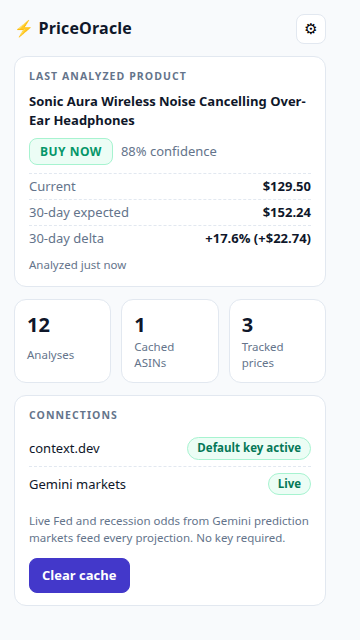
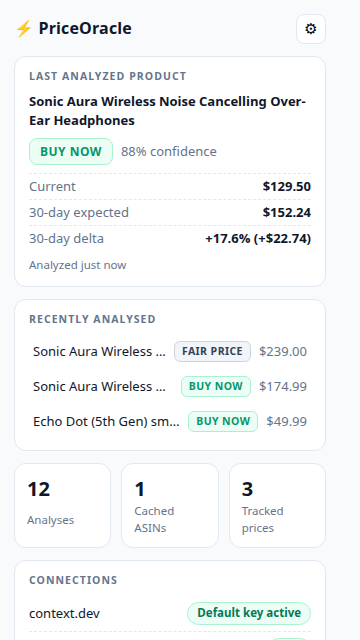
1.4.0: recently analysed list in the popup

Changed region(s): [[0.0611, 0.4688, 0.8861, 0.9688], [0.5194, 0.9375, 0.8861, 1.0]]

diff --git a/amazon-price-oracle/src/background/service-worker.js b/amazon-price-oracle/src/background/service-worker.js
@@ -22,6 +22,7 @@ import {
   testContextDevConnection
 } from './context-dev.js';
 import { getPrediction, testGeminiConnection } from './gemini-prediction.js';
+import { addRecent } from './recent.js';
 import { clearPriceHistory, countTrackedProducts, historySignals, recordPrice } from './price-history.js';
 import { computeProjection, estimateVolatility } from './projection-engine.js';
 
@@ -196,8 +197,19 @@ async function runPipeline(page) {
 }
 
 async function recordLastAnalysis(result) {
-  const count = (await chrome.storage.local.get(STORAGE_KEYS.ANALYSIS_COUNT))[STORAGE_KEYS.ANALYSIS_COUNT] || 0;
+  const stored = await chrome.storage.local.get([STORAGE_KEYS.ANALYSIS_COUNT, STORAGE_KEYS.RECENT_ANALYSES]);
+  const count = stored[STORAGE_KEYS.ANALYSIS_COUNT] || 0;
+  const entry = {
+    at: Date.now(),
+    asin: result.asin,
+    title: result.title,
+    currentPrice: result.projection.currentPrice,
+    deltaPercentMonth: result.projection.deltaPercentMonth,
+    action: result.projection.recommendation.action,
+    label: result.projection.recommendation.label
+  };
   await chrome.storage.local.set({
+    [STORAGE_KEYS.RECENT_ANALYSES]: addRecent(stored[STORAGE_KEYS.RECENT_ANALYSES] || [], entry),
     [STORAGE_KEYS.LAST_ANALYSIS]: {
       at: Date.now(),
       asin: result.asin,
@@ -218,7 +230,7 @@ async function recordLastAnalysis(result) {
 
 /** Snapshot used by the popup. Never exposes the key value itself. */
 async function getStatus() {
-  const stored = await chrome.storage.local.get([STORAGE_KEYS.LAST_ANALYSIS, STORAGE_KEYS.ANALYSIS_COUNT]);
+  const stored = await chrome.storage.local.get([STORAGE_KEYS.LAST_ANALYSIS, STORAGE_KEYS.ANALYSIS_COUNT, STORAGE_KEYS.RECENT_ANALYSES]);
   const contextKey = await getContextDevKey();
   return {
     contextKeySet: Boolean(contextKey.key),
@@ -226,7 +238,8 @@ async function getStatus() {
     cachedProducts: await countCachedProducts(),
     trackedProducts: await countTrackedProducts(),
     analysisCount: stored[STORAGE_KEYS.ANALYSIS_COUNT] || 0,
-    lastAnalysis: stored[STORAGE_KEYS.LAST_ANALYSIS] || null
+    lastAnalysis: stored[STORAGE_KEYS.LAST_ANALYSIS] || null,
+    recent: stored[STORAGE_KEYS.RECENT_ANALYSES] || []
   };
 }
 

diff --git a/amazon-price-oracle/src/popup/popup.js b/amazon-price-oracle/src/popup/popup.js
@@ -26,6 +26,32 @@ function timeAgo(ts) {
   return hours < 24 ? `${hours} h ago` : `${Math.round(hours / 24)} d ago`;
 }
 
+/** Rows link to the product; text is set with textContent so titles can never inject markup. */
+function renderRecent(list) {
+  $('recent-card').hidden = !list || list.length < 2; // the last product is already shown above
+  const ul = $('recent-list');
+  ul.replaceChildren();
+  for (const item of (list || []).slice(1)) {
+    const li = document.createElement('li');
+    const a = document.createElement('a');
+    a.href = `https://www.amazon.com/dp/${encodeURIComponent(item.asin)}`;
+    a.target = '_blank';
+    a.rel = 'noopener noreferrer';
+    const title = document.createElement('span');
+    title.className = 'recent-title';
+    title.textContent = item.title || `ASIN ${item.asin}`;
+    const pill = document.createElement('span');
+    pill.className = `pill small ${item.action}`;
+    pill.textContent = item.label;
+    const price = document.createElement('span');
+    price.className = 'muted';
+    price.textContent = usd(item.currentPrice);
+    a.append(title, pill, price);
+    li.append(a);
+    ul.append(li);
+  }
+}
+
 function renderLast(last) {
   $('last-empty').hidden = Boolean(last);
   $('last-body').hidden = !last;
@@ -59,6 +85,7 @@ async function refresh() {
         ? 'Gemini markets was unreachable on the last check: using the heuristic model only.'
         : 'Live Fed and recession odds from Gemini prediction markets feed every projection. No key required.';
     renderLast(status.lastAnalysis);
+    renderRecent(status.recent);
   } catch (err) {
     $('gem-hint').textContent = `Could not load status: ${err.message}`;
   }

diff --git a/amazon-price-oracle/src/popup/popup.css b/amazon-price-oracle/src/popup/popup.css
@@ -54,3 +54,10 @@ code { background: #eef2f7; padding: 1px 5px; border-radius: 4px; font-size: 11.
 .btn.primary:hover { background: #3730a3; }
 .btn:focus-visible, .icon-btn:focus-visible, input:focus-visible { outline: 2px solid #6366f1; outline-offset: 2px; }
 
+
+.recent { list-style: none; margin: 0; padding: 0; display: grid; gap: 2px; }
+.recent a { display: grid; grid-template-columns: 1fr auto auto; align-items: center; gap: 8px; padding: 6px 4px; border-radius: 8px; color: inherit; text-decoration: none; }
+.recent a:hover, .recent a:focus-visible { background: #f1f5f9; }
+.recent a:focus-visible { outline: 2px solid #6366f1; }
+.recent-title { overflow: hidden; text-overflow: ellipsis; white-space: nowrap; }
+.pill.small { font-size: 10.5px; padding: 2px 7px; border-radius: 6px; }

diff --git a/amazon-price-oracle/src/popup/popup.html b/amazon-price-oracle/src/popup/popup.html
@@ -31,6 +31,11 @@
       </div>
     </section>
 
+    <section class="card" id="recent-card" aria-labelledby="recent-title" hidden>
+      <h2 id="recent-title" class="label">Recently analysed</h2>
+      <ul id="recent-list" class="recent"></ul>
+    </section>
+
     <section class="stats" aria-label="Quick stats">
       <div class="stat"><strong id="stat-count">0</strong><span>Analyses</span></div>
       <div class="stat"><strong id="stat-cache">0</strong><span>Cached ASINs</span></div>

diff --git a/amazon-price-oracle/src/background/recent.js b/amazon-price-oracle/src/background/recent.js
@@ -1,0 +1,14 @@
+/**
+ * Recently analysed products shown in the popup. Pure, so it is unit tested
+ * (the service worker itself cannot be imported outside Chrome).
+ */
+export const RECENT_MAX = 5;
+
+/**
+ * Newest first, one row per ASIN, at most RECENT_MAX rows.
+ * @param {Array<{asin: string}>} list
+ * @param {{asin: string}} entry
+ */
+export function addRecent(list, entry) {
+  return [entry, ...list.filter((e) => e.asin !== entry.asin)].slice(0, RECENT_MAX);
+}

diff --git a/amazon-price-oracle/src/shared/constants.js b/amazon-price-oracle/src/shared/constants.js
@@ -33,6 +33,7 @@ export const STORAGE_KEYS = Object.freeze({
   PRICE_HISTORY: 'price_history',
   CONTEXT_PAUSE: 'context_pause',
   LAST_ANALYSIS: 'last_analysis',
+  RECENT_ANALYSES: 'recent_analyses',
   ANALYSIS_COUNT: 'analysis_count'
 });
 

diff --git a/README.md b/README.md
@@ -144,6 +144,7 @@ Key properties:
 | `src/background/service-worker.js` | Message router (`PO_ANALYZE_PRODUCT`, `PO_GET_STATUS`, `PO_TEST_CONNECTION`, `PO_OPEN_OPTIONS`, `PO_CLEAR_CACHE`), the analysis pipeline, in-flight request de-duplication, `last_analysis` bookkeeping, and the `onInstalled` handler (opens the welcome tab and injects content scripts into already-open Amazon tabs). Always replies `{ok, data}` or `{ok:false, error}`. |
 | `src/background/context-dev.js` | context.dev client. Calls `POST /v1/web/scrape` with `formats {json, markdown}` and a pricing JSON schema. `unwrapScrapeResponse` flattens the API's `{requested, success, data}` wrappers; `extractSignals` + `signalsFromMarkdown` turn the output into normalised signals (list price, current price, low/avg/high, discount %, rating, reviews, bought-past-month, category, availability). 24 h cache per ASIN (15 min negative cache for errors). `testContextDevConnection` uses a free endpoint. |
 | `src/background/gemini-prediction.js` | Two parts. (1) **Gemini prediction markets** client: fetches Economics events, `contractProbability`, `computeMacroSignal` (Fed hike/cut odds + recession odds to a sentiment multiplier and discount boost), `blendMacro`, 3 h cache with stale fallback. (2) **Heuristic model** `simulatePrediction`: deterministic, seeded by ASIN and ISO week; mean reversion vs typical/list price, seasonal sale calendar (`findSeasonalEvent`), category sale proneness. Always available as the fallback. |
+| `src/background/recent.js` | Pure `addRecent` for the popup's recent list. |
 | `src/background/price-history.js` | Local observation log. Pure helpers (`addObservation`, `summarize`, `historySignals`) plus chained storage writes (`recordPrice`). `historySignals` returns low/high/avg only after 3+ points over 2+ days; the worker merges them *under* context.dev signals. |
 | `src/background/projection-engine.js` | Pure functions, no `chrome.*`. `estimateVolatility`, `computeProjection`, `buildRecommendation`, `computeConfidence`, `formatUsd`. Contains the spec formulas (see below). |
 | `src/content/amazon-parser.js` | `PriceOracle.Parser`: ASIN (`#ASIN`, URL regex fallback), price (multiple selector fallbacks, `.a-offscreen` and whole/fraction), list price, category (breadcrumb, dropdown, nav), title, rating; `parseProduct()` returns null on non-product pages or when no price is present. Search helpers: `isSearchPage`, `getSearchCategory`, `getSearchCards`, `parseSearchCard`. |
@@ -162,6 +163,7 @@ Key properties:
 | `package.json` | Scripts: `test` (unit), `e2e`, `pack`, `icons`, `demo`. Dev dependencies: `puppeteer-core` (e2e) and `jsdom` (parser tests). |
 | `scripts/pack.mjs` | Builds `../PriceOracle.zip` (manifest, icons, src only) with a dependency-free, deterministic zip writer. |
 | `scripts/generate-icons.js` | Generates the PNG icons with a zero-dependency rasteriser. |
+| `tests/recent.test.mjs` | Unit tests for the recent list. |
 | `tests/history.test.mjs` | Unit tests for the local price history. |
 | `tests/parser.test.mjs` | DOM tests (jsdom) for `amazon-parser.js` using the mock pages as fixtures. |
 | `tests/widget.test.mjs` | Pure rendering tests for `widget-template.js`: escaping, tiers, chip states. |
@@ -239,7 +241,7 @@ deltaPercentMonth <= -4.0  ->  WAIT        >= +4.0  ->  BUY NOW        otherwise
 | `show_product_card`, `show_search_chips` | Options switches. Absent means on; `false` turns that surface off. Content scripts watch `chrome.storage.onChanged` and add or remove the UI live. |
 | `context_pause` | `{until, reason}`: circuit breaker set after a 401/402/403/429 from context.dev; no calls until `until` (30 min) or until settings are saved / Test Connection succeeds. |
 | `price_history` | `{ [ASIN]: [[timestamp, price], ...] }`: prices this browser has seen (max 40 points per ASIN, 300 ASINs, 120 days). Written by `price-history.js`. |
-| `last_analysis`, `analysis_count` | Popup display data. |
+| `last_analysis`, `recent_analyses`, `analysis_count` | Popup display data (`recent_analyses` holds the last 5 products, see `recent.js`). |
 
 Messages (content/popup/options to worker), names in `MSG`:
 `PO_ANALYZE_PRODUCT`, `PO_GET_STATUS`, `PO_TEST_CONNECTION`, `PO_OPEN_OPTIONS`, `PO_CLEAR_CACHE`, `PO_CLEAR_HISTORY`. Every response is `{ok:true,data}` or `{ok:false,error}`.

diff --git a/CHANGELOG.md b/CHANGELOG.md
@@ -5,6 +5,13 @@ the 5-tier 30-day projection (formulas in the README), the WAIT / BUY NOW / FAIR
 (-4% / +4%), the Shadow DOM card on product pages, the context.dev + Gemini markets inputs, and the
 heuristic fallback.
 
+## 1.4.0 - Recently analysed products
+
+- The popup lists the last products you looked at (below the most recent one): title, verdict pill and price,
+  each linking back to the product. Full analyses only: product pages and "Deep analysis" on a search chip (quick chip estimates do not fill the list).
+- Rows are built with `textContent` and `encodeURIComponent`, so titles and ASINs can never inject markup.
+- New pure module `recent.js` with unit tests (ordering, one row per ASIN, cap of 5), plus an end-to-end check.
+
 ## 1.3.2 - Circuit breaker for context.dev
 
 - A rejected key (401/403) or exhausted quota (402/429) now pauses context.dev calls for 30 minutes for
